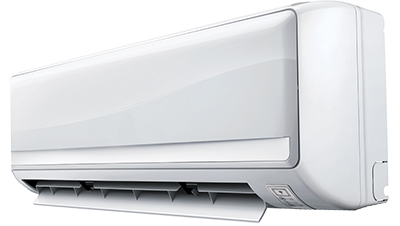
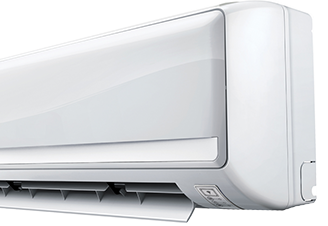
Tile image responsiveness change

diff --git a/frontend/src/components/TileRemote.jsx b/frontend/src/components/TileRemote.jsx
@@ -58,63 +58,35 @@ export const TileRemote = ({id, item, isConnected, refetch}) => {
 
 	const listenersOnState = editMode ? { ...listeners } : {};
 
-	const RgbImg = () => <div 
-							className="absolute inset-0 bg-no-repeat bg-cover bg-center z-0"
-							style={{ backgroundImage: `url(${rgbStripImg})`,
-									backgroundSize: 'auto 100%',
-									backgroundPosition: 'bottom left'}}
-						></div>
-
-	const DehumidifierImg = () => <div 
-									className="absolute inset-0 bg-no-repeat bg-cover bg-center z-0 ml-2"
-									style={{ backgroundImage: `url(${dehumidifierImg})`,
-											backgroundSize: 'auto 100%',
-											backgroundPosition: 'bottom left'}}
-								></div>
-
-	const TvImg = () => <div 
-							className="absolute inset-0 bg-no-repeat bg-cover bg-center z-0"
-							style={{ backgroundImage: `url(${tvImg})`,
-									backgroundSize: 'auto 100%',
-									backgroundPosition: 'bottom left'}}
-						></div>
 
 	const AirConditionerImg = () => <div 
-										className="absolute inset-0 bg-no-repeat bg-cover bg-center z-0  -ml-10 "
+										className="absolute inset-0 bg-no-repeat bg-cover bg-center z-0 "
 										style={{ backgroundImage: `url(${airconditionerImg})`,
 												backgroundSize: 'auto 100%',
 												backgroundPosition: 'bottom left'}}
 									></div>
 	
-	const HeaterImg = () => <div 
-								className="absolute inset-0 bg-no-repeat bg-cover bg-center z-0"
-								style={{ backgroundImage: `url(${heaterImg})`,
-										backgroundSize: 'auto 100%',
-										backgroundPosition: 'bottom left'}}
-							></div>		
 
-	const SpeakerImg = () => <div 
-								className="absolute inset-0 bg-no-repeat bg-cover bg-center z-0 -ml-3"
-								style={{ backgroundImage: `url(${speakerImg})`,
-										backgroundSize: 'auto 100%',
-										backgroundPosition: 'bottom left'}}
-							></div>
 
-	const UniDeviceImg = () => <div 
-									className="absolute inset-0 bg-no-repeat bg-cover bg-center z-0 "
-									style={{ backgroundImage: `url(${uniDeviceImg})`,
-											backgroundSize: 'auto 100%',
-											backgroundPosition: 'bottom left'}}
-								></div>
-			
+	const TileImg = ({className, img}) => {
+		return (
+			<div className="w-full h-full flex justify-start items-center overflow-hidden z-0">
+				<img
+				src={img}
+				alt="Speaker"
+				className={`h-full max-w-full object-contain object-left-bottom ${className}`}
+				/>
+			</div>
+		)
+	}
 	const mapping = {
-		"Air Conditioner": <AirConditionerImg/>,
-		"Dehumidifier": <DehumidifierImg/>,
-		"Smart TV": <TvImg/>,
-		"Heater": <HeaterImg/>,
-		"Audio System": <SpeakerImg/>,
-		"RGB Lights": <RgbImg/>,
-		"Generic Device": <UniDeviceImg/>
+		"Air Conditioner": <TileImg img={airconditionerImg}/>,
+		"Dehumidifier": <TileImg img={dehumidifierImg} className={"-ml-2"}/>,
+		"Smart TV": <TileImg img={tvImg}/>,
+		"Heater": <TileImg img={heaterImg}/>,
+		"Audio System": <TileImg img={speakerImg} className="-ml-1"/>,
+		"RGB Lights": <TileImg img={rgbStripImg}/>,
+		"Generic Device": <TileImg img={uniDeviceImg}/>
 	}
 
 	return (
@@ -153,11 +125,11 @@ export const TileRemote = ({id, item, isConnected, refetch}) => {
 					</div>
 					
 				</div>
-				<div className="relative flex h-2/3 w-full items-end justify-end overflow-visible">
+				<div className="relative flex flex-col h-2/3 w-full items-end justify-end overflow-visible">
 					
 					{mapping[deviceType]}
 					
-					<div className="flex h-full justify-end items-end">
+					<div className="absolute flex h-full justify-end items-end">
 						<div className="flex flex-row justify-center items-center cursor-pointer rounded-full w-14 h-14 bg-gray-200 shadow-md shadow-gray-700 border-gray-300 border-1  bg-opacity-70 backdrop-filter backdrop-blur-2xl mr-2 mb-2">
 							<ChevronRight onClick={() => navigate(`/remotes/${item.remoteName}`)} className="opacity-95" color={"#374151"} size={28}/>
 						</div>

diff --git a/frontend/src/components/TileDevice.jsx b/frontend/src/components/TileDevice.jsx
@@ -59,6 +59,18 @@ export const TileDevice = ({id, item, isConnected, refetch}) => {
 									backgroundSize: 'auto 100%',
 									backgroundPosition: 'bottom left'}}
 						></div>
+
+	const IotImg3 = ({className, img}) => {
+		return (
+			<div className="w-full h-full flex justify-center items-end overflow-hidden z-0">
+				<img
+				src={esp32Img}
+				alt="Speaker"
+				className={`h-full max-w-full object-contain object-bottom -ml-3`}
+				/>
+			</div>
+		)
+	}
 	return (
 		<>
 		<div 
@@ -81,7 +93,7 @@ export const TileDevice = ({id, item, isConnected, refetch}) => {
 
 			}
 			<div className="flex flex-col w-full h-full overflow-hidden">
-				<div className="relative flex flex-col h-1/3 w-full items-start justify-start p-2">
+				<div className="relative flex flex-col h-1/3 w-full items-start justify-start p-2 z-10">
 						
 					<div 
 						className={`absolute top-2 right-2 z-10 flex flex-row justify-center items-center 
